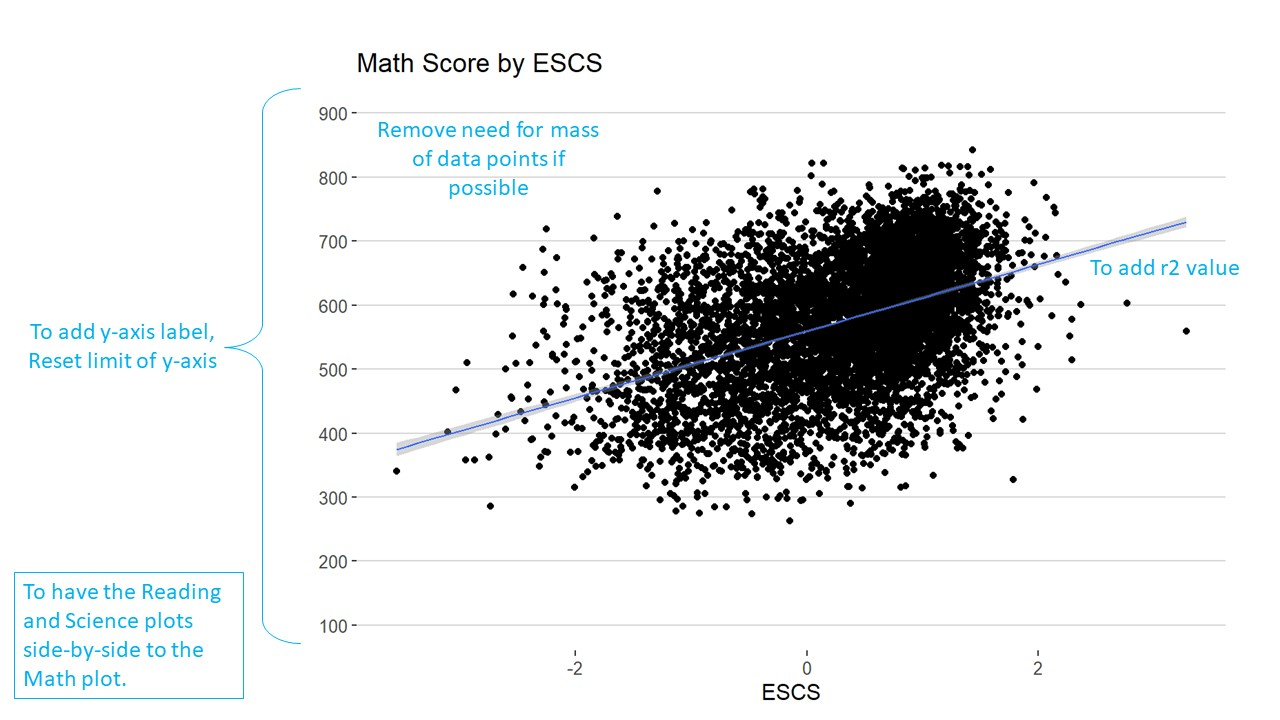
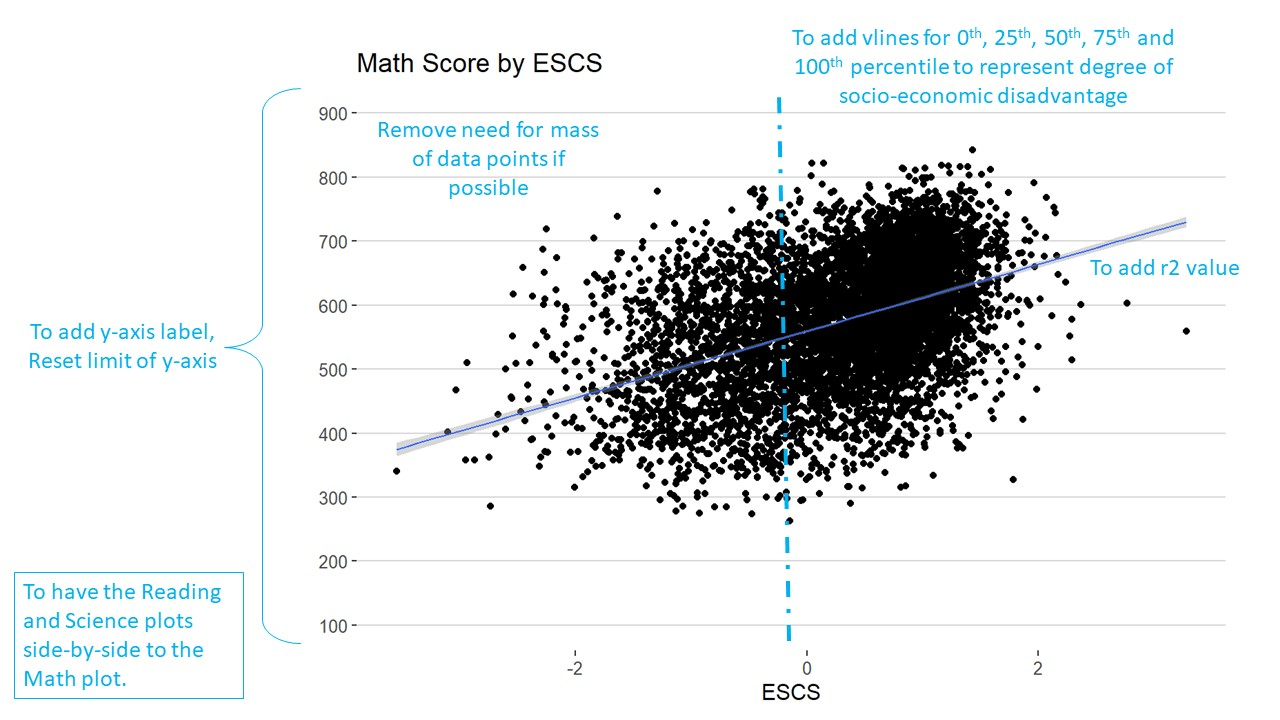
take-home ex2 commit 5

Changed region(s): [[0.625, 0.0306, 0.9375, 0.1528]]

diff --git a/_site/Take-home_Ex/Take-home_Ex2/Take-home_Ex2.html b/_site/Take-home_Ex/Take-home_Ex2/Take-home_Ex2.html
@@ -1588,6 +1588,7 @@ The Code
 <ul>
 <li><p>adding in the y-axis label and reset the limits of the y-axis scale to the range of 0 to 1000</p></li>
 <li><p>adding vlines to the plot to indicate the value of Singapore’s ESCS index at the 0, 25th, 50th, 75th and 100th percentile. This is with reference to the notes indicated in the <a href="https://www.oecd-ilibrary.org/sites/53f23881-en/index.html?itemId=/content/publication/53f23881-en#:~:text=Singapore%20scored%20significantly%20higher%20than,countries%20and%20economies%20in%20mathematics.">PISA 2022 Results (Volume 1)</a> where it was stated that ESCS refers to the PISA index of economic, social and cultural status and that a socio-economically advantaged (disadvantaged) student is a student in the <strong>top (bottom) quarter of ESCS in his or her own country/economy</strong>. It would hence be useful to indicate the ESCS index values of Singapore by percentiles.</p></li>
+<li><p>add r2 value to better understand how the variation in ESCS index affects the variation of scores</p></li>
 <li><p>having a side-by-side comparison of all 3 subjects via patchwork</p></li>
 </ul>
 </section>
@@ -1715,12 +1716,12 @@ The Code
 <p><img src="Take-home_Ex2_files/figure-html/unnamed-chunk-55-1.png" class="img-fluid" width="960"></p>
 </div>
 </div>
-<p>From the visualisation above, we can observe the scores are generally positively correlated with the ESCS index. However, based on the R2 values (which were approximately ~0.2), the variation in ESCS index weakly explains the variation in the scores.</p>
+<p>From the visualisation above, we can observe the scores are generally positively correlated with the ESCS index. However, based on the R2 values (which are approximately ~0.2), the variation in ESCS index weakly explains the variation in the scores.</p>
 <p>Further, it is observed that there are a range of scores within the different quantiles of ESCS index i.e.&nbsp;within the 25th percentile, scores vary between a large range, ~300 to ~800 for Math and Science and ~200 to ~700 for Reading. It would hence be better to explore how the scores would vary across the different levels of ESCS index. To do this, we will explore another form of visualisation in the next section.</p>
 </section>
 <section id="supplementary-visualisation-for-performance-across-different-escs-index-values" class="level3">
 <h3 class="anchored" data-anchor-id="supplementary-visualisation-for-performance-across-different-escs-index-values">4.4.4 Supplementary visualisation for performance across different ESCS index values</h3>
-<p>Given the definition of socio-economically disadvantaged and advantaged which refer to the bottom and top quarter of ESCS in his or her own country/economy, we could bin the ESCS index values.</p>
+<p>Given that socio-economically disadvantaged and advantaged refer to the bottom and top quarter of ESCS in his or her own country/economy, we could bin the ESCS index values for exploratory data analysis.</p>
 <p>This would allow us to study the distribution of scores within the ESCS quantiles and additionally counter the issue of having a mass of data points on the plot which might be aesthetically unpleasing, which the earlier remake was unable to tackle.</p>
 </section>
 <section id="removing-missing-values-and-binning-variable-escs" class="level3">
